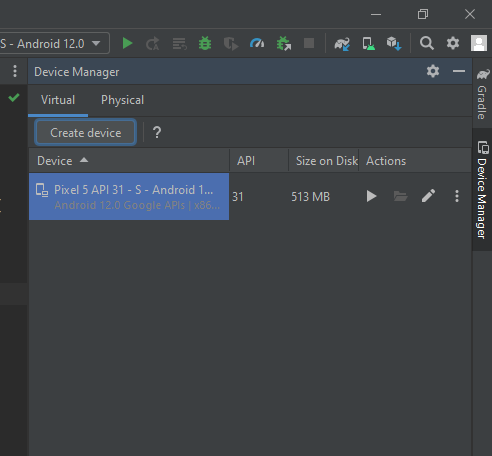
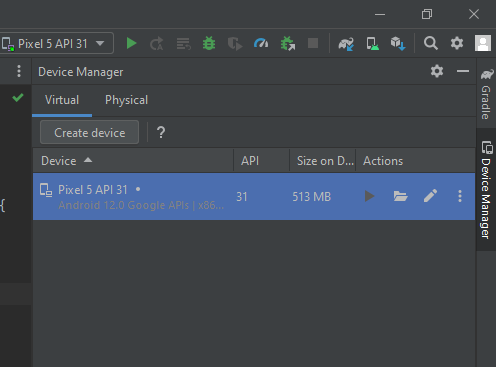
Atualización README.md

diff --git a/README.md b/README.md
@@ -102,8 +102,18 @@ Especificamos un nombre para el dispositivo si se considera necesario y damos cl
 
 ![](img/Device_Manager-9.png)
 
-Para ejecutar el app que fue creada en el dispositivo, en la barra de herramientas, en el menú desplegable seleccionamos el dispositivo creado (**Pixel 5 API 31 - S - Andorid 12.0**) y damos click en el ícono **_Run_**:
+Para ejecutar el app que fue creada en el dispositivo, en la barra de herramientas, en el menú desplegable seleccionamos el dispositivo creado (**Pixel 5 API 31**):
 
 ![](img/Device_Manager-10.png)
+
+Luego damos click en el ícono **_Run_** localizado en la ventana Device Manager:
+
+![](img/Device_Manager-11.png)
+
+Esperamos a que se inicie el emulador:
+
+1[](img/Device_Manager-12.png)
+
+Damos Run a la aplicación, y esperamos a que esta se lanze. Finalmente podemos ver en la pantalla del dispositivo virtual la aplicación, en este caso el nombre **"Happy Birthday"** y en el centro de la pantalla el texto **"Hello World"**.
 
 ## 4. Busca los archivos de tu proyecto
